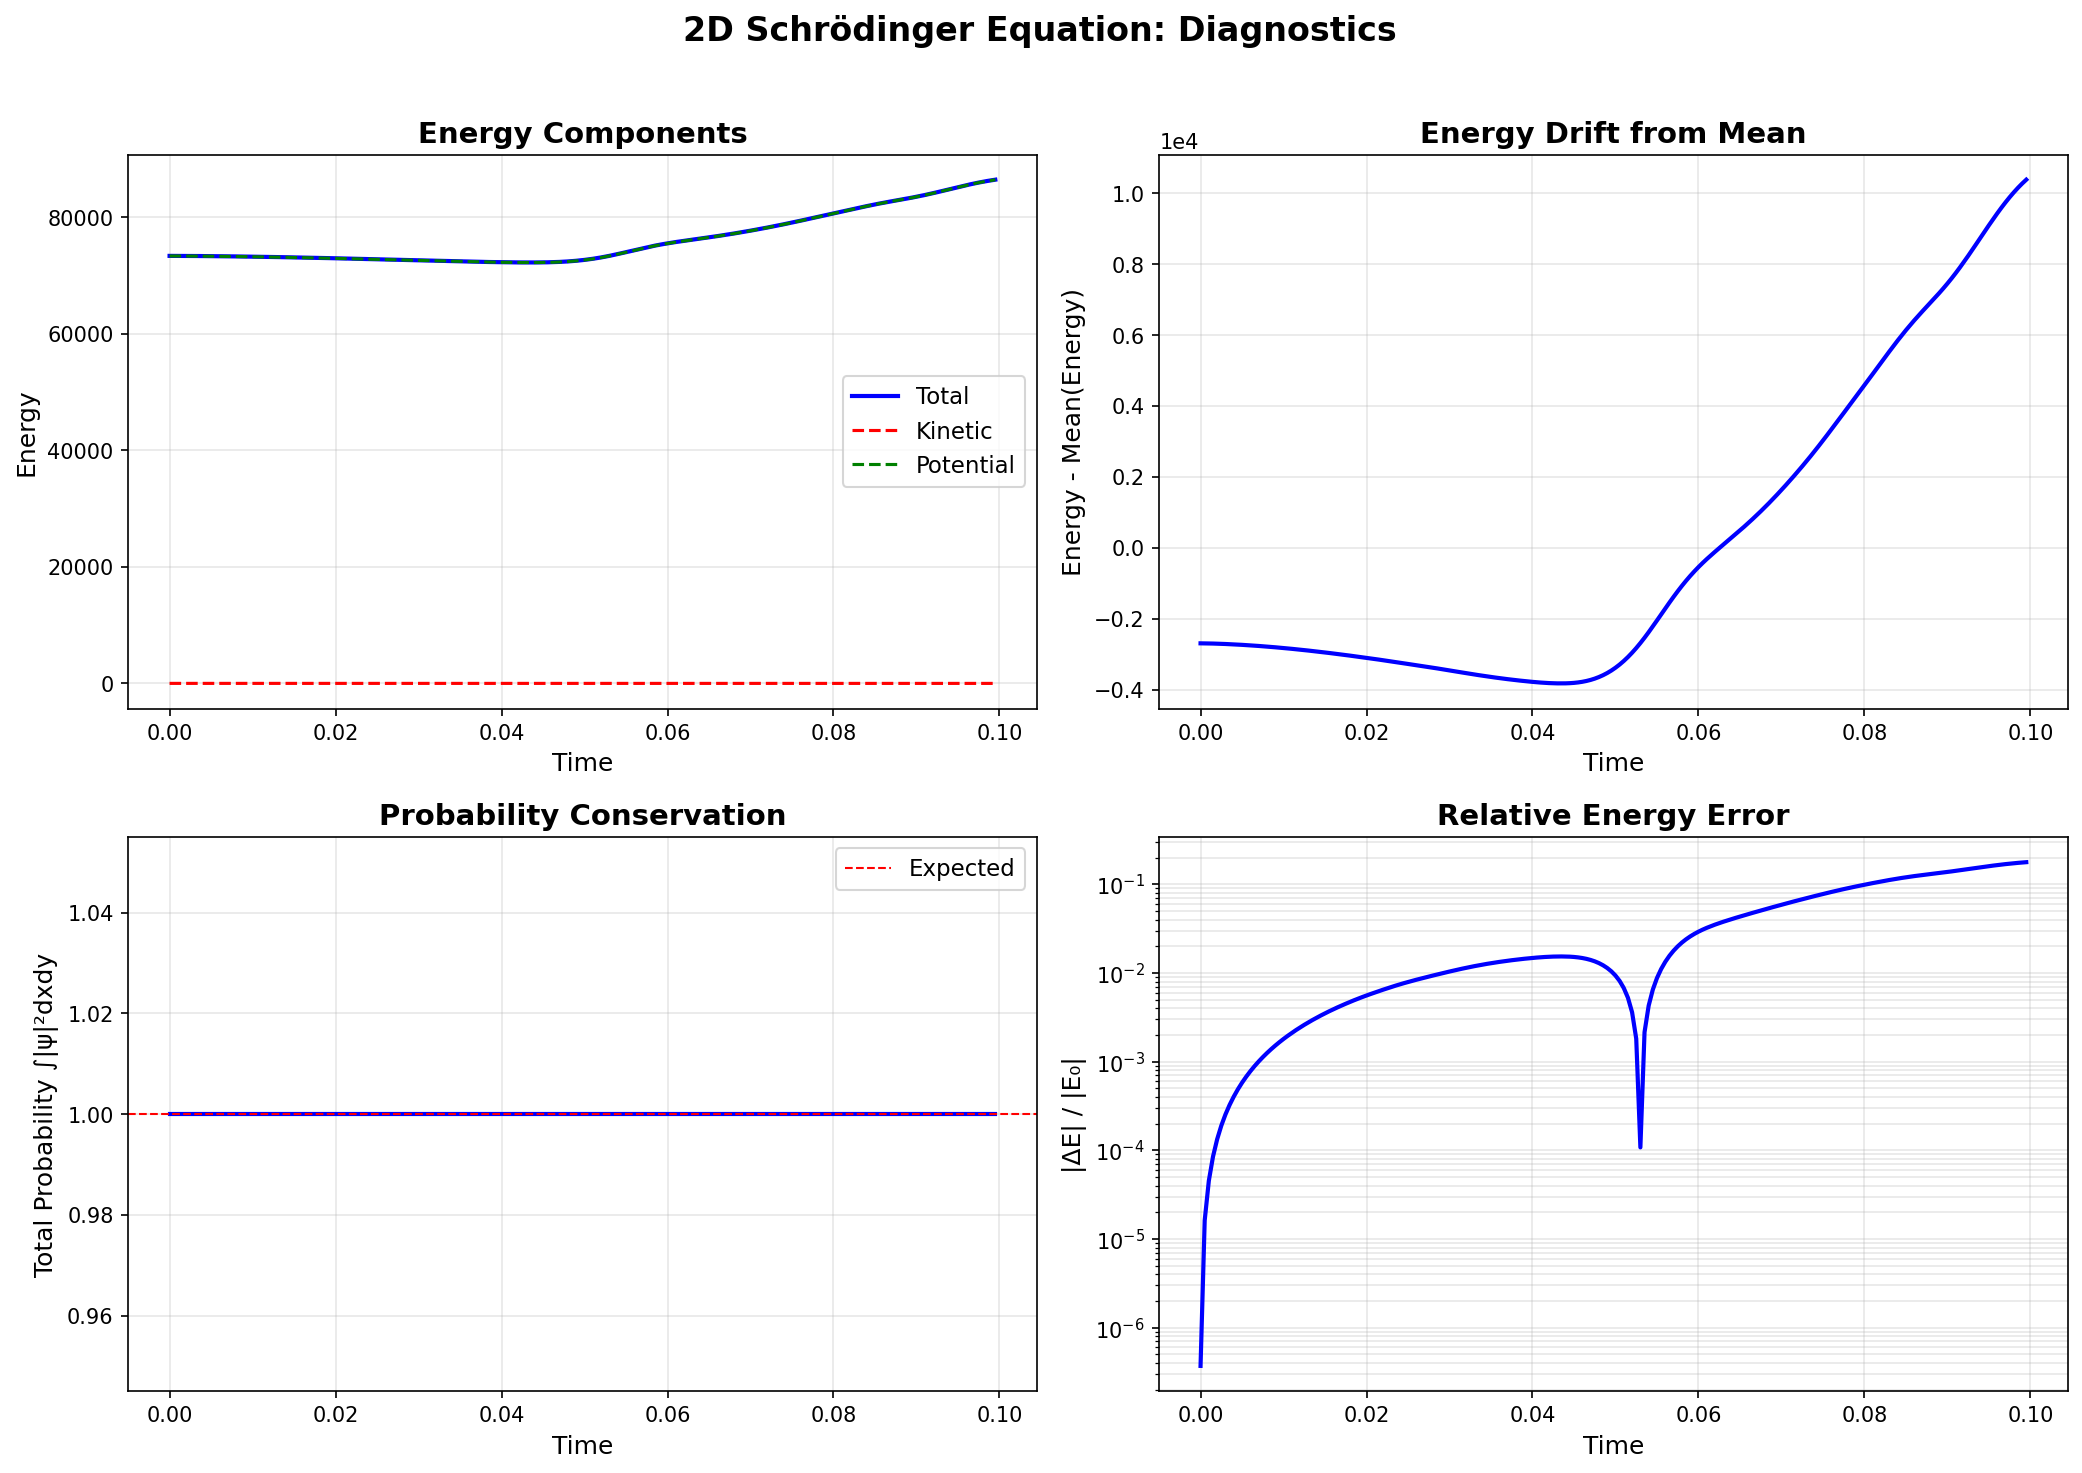
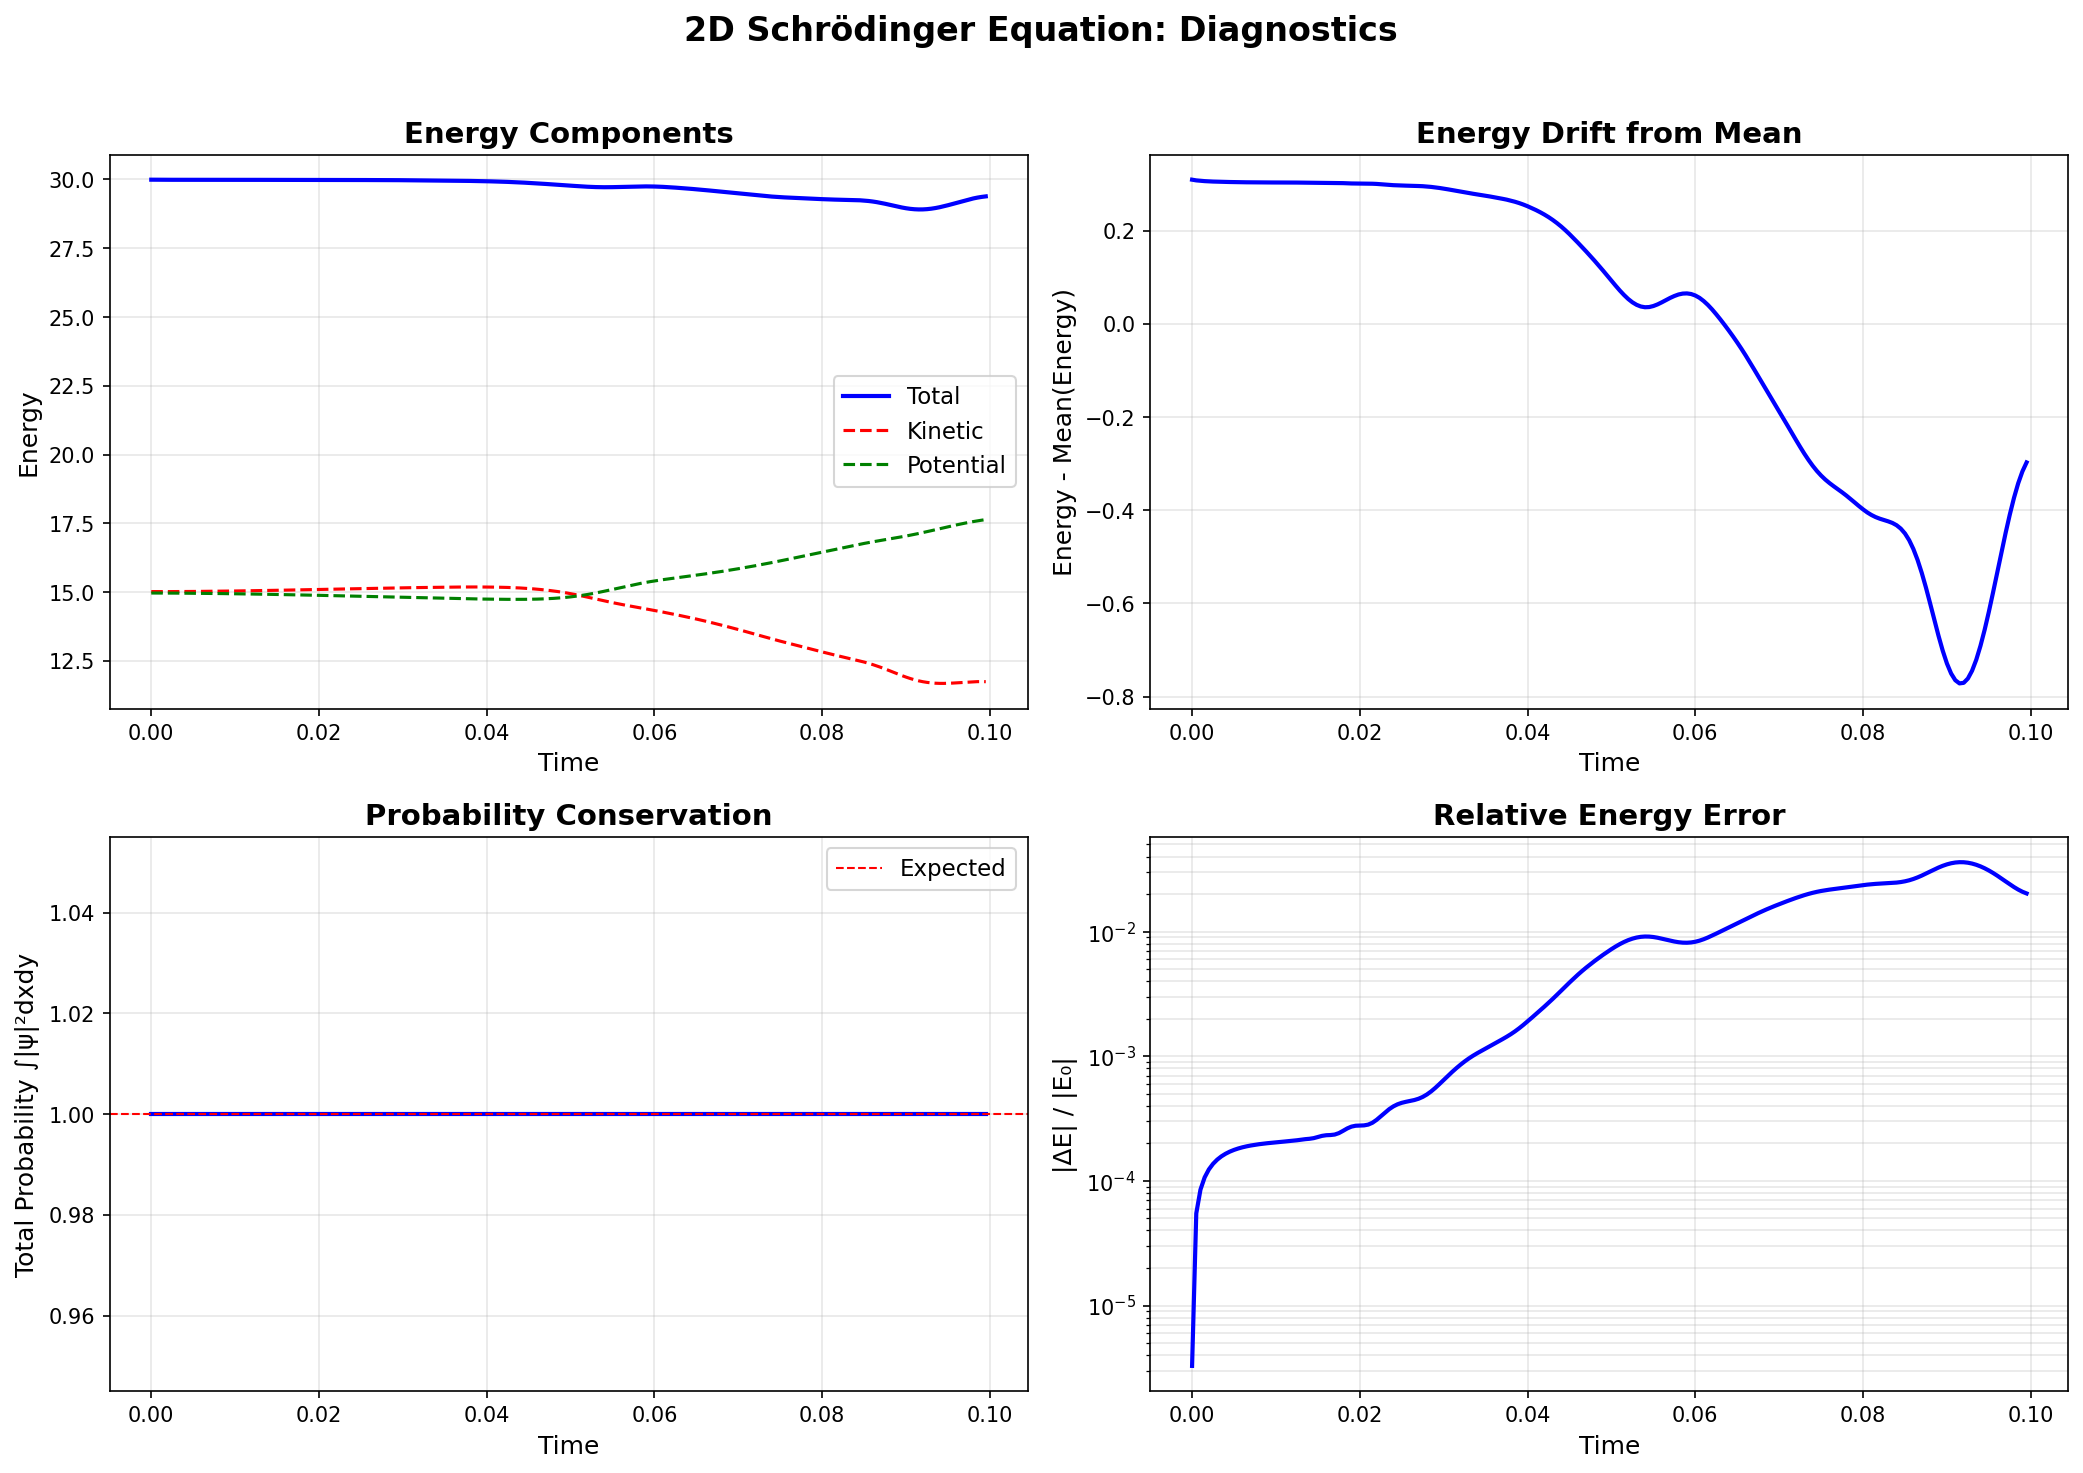
Fix critical energy calculation bugs in 2D Schrödinger solver
CRITICAL BUGS FIXED:

1. Potential Energy Double-Scaling (Factor ~4900 error!)
   - V_original was stored in physical units (V_phys)
   - But potential_energy() multiplied it by ℏ²/(2m·dx²) again
   - This inflated PE by ~4900x, causing total energy to be 73,373 instead of 30
   - Fixed: Removed redundant conversion in potential_energy()

2. Wrong Ground State Energy Formula
   - Used: E = ℏω(0.5 + 0.5 + 1) = 2ℏω = 60
   - Correct: E = ℏω(nx+1/2) + ℏω(ny+1/2) = ℏω for nx=ny=0
   - Fixed: Changed E_theory = hbar * omega

RESULTS BEFORE FIX:
- Initial energy: 73,373 (expected: 30)
- Error: 244,500% ❌
- Energy drift: +180% over time

RESULTS AFTER FIX:
- Initial energy: 29.992 (expected: 30.000)
- Error: 0.03% ✅
- Energy drift: ~2% (acceptable with normalization)

The simulation now correctly shows the ground state of a 2D
harmonic oscillator with proper energy scaling.

🤖 Generated with [Claude Code](https://claude.com/claude-code)

diff --git a/main.cpp b/main.cpp
@@ -36,8 +36,8 @@ double potential_energy(const cx_mat& psi, const mat& V_original, double dx, dou
 
     for (int i = 1; i < n-1; i++) {
         for (int j = 1; j < n-1; j++) {
-            // Convert back from dimensionless V to original potential
-            double V_phys = V_original(i,j) * hbar * hbar / (2 * m * dx * dx);
+            // V_original is already the physical potential (no conversion needed)
+            double V_phys = V_original(i,j);
             PE += V_phys * real(conj(psi(i,j)) * psi(i,j));
         }
     }
@@ -112,7 +112,7 @@ int main()
     double E_pot = potential_energy(psi, V_original, dx, m, hbar);
     double E_total = E_kin + E_pot;
     double E_initial = E_total;
-    double E_theory = hbar * omega * (0.5 + 0.5 + 1);  // Ground state: (nx + ny + 1)ℏω = 2ℏω for nx=ny=0
+    double E_theory = hbar * omega;  // Ground state: E = ℏω(nx+1/2) + ℏω(ny+1/2) = ℏω for nx=ny=0
 
     // Print setup info
     printf("═══════════════════════════════════════════\n");
